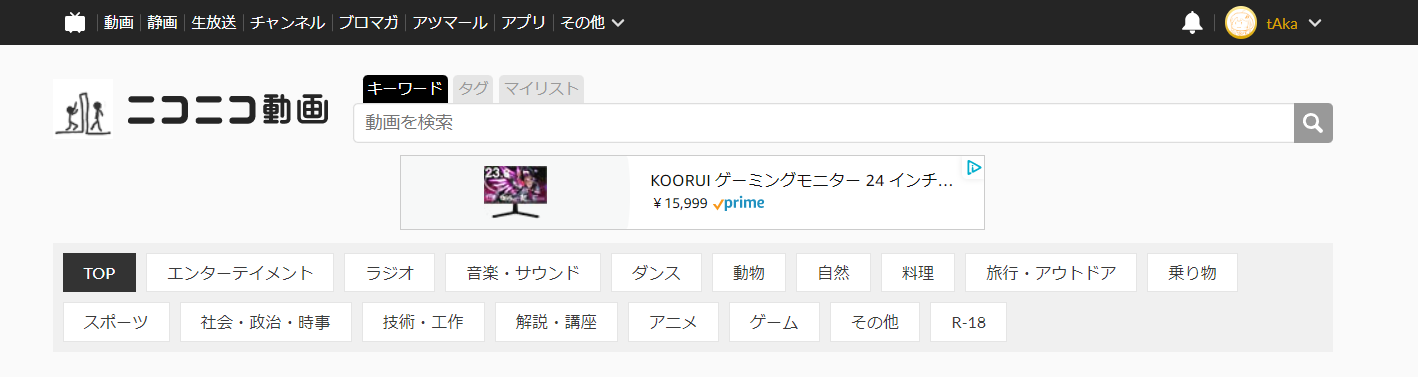
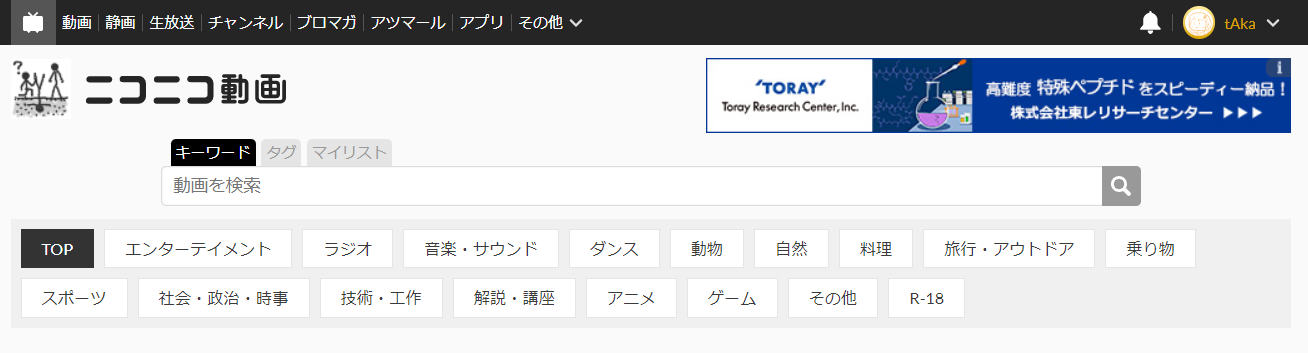
諸々の機能を追加。たくさん。

diff --git a/css/tag.css b/css/tag.css
@@ -1,9 +1,5 @@
 .pageLogo {
-    width: 54px !important;
-}
-
-.logo {
-    display: none !important;
+    order: 1 !important;
 }
 
 .siteHeader {
@@ -11,22 +7,64 @@
     width: 1024px !important;
 }
 
+.siteHeader .inner {
+    display: flex !important;
+    flex-wrap: wrap !important;
+}
+
 .videoSearch {
     width: 940px !important;
+    padding: 0 !important;
+    margin: 10px 0 !important;
+}
+
+.videoSearchOption {
+    padding: 0 10px !important;
+    height: 24px !important;
+}
+
+.videoSearchOption li{
+    border-radius: 4px 4px 0 0 !important;
+    height: 24px !important;
+    line-height: 24px !important;
+    font-size: 14px !important;
+    margin-right: 4px !important;
+    padding: 0 6px !important;
+}
+
+.videoSearchInput {
+    height: 32px !important;
+    border-radius: 6px !important;
 }
 
 .inputText {
     width: 903px !important;
+    background: none !important;
+}
+
+.inputText input{
+    height: 26px !important;
+    background: none !important;
+}
+
+.videoSearchInput .search {
+    height: 31px !important;
+    background-size: 20px !important;
+    background-position-y: 4px !important;
+    background-position-x: 6px !important;
+    border-left: 1px solid #ccc !important;
 }
 
 .clear-button-inner-tag {
     left: 885px !important;
+    top: -22px !important;
 }
 
 .notice {
-    display: contents !important;
+    margin: auto 0 auto auto !important;
+    order: 2 !important;
 }
 
-#web_pc_top {
-    margin-top: 4px !important;
+.tagCaption .contentsData .share{
+    top: 76px !important;
 }

diff --git a/css/search.css b/css/search.css
@@ -1,0 +1,62 @@
+.formSearch{
+    background: none !important;
+    border: none !important;
+    box-shadow: none !important;
+    text-align: left !important;
+}
+
+.searchFormA {
+    text-align: left !important;
+}
+
+.searchFormB {
+    margin: 0 auto 0 0 !important;
+    width: 700px !important;
+    height: 40px !important;
+    border: none !important;
+}
+
+.sbubmit {
+    width: 590px !important;
+}
+
+.sbubmit input{
+    width: -webkit-fill-available !important;
+    height: 36px !important;
+    box-shadow: 0 1px 1px 1px #f9f9f9 inset !important;
+    font-size: 130% !important;
+    font-weight: normal !important;
+    border-radius: 10px 0 0 10px !important;
+    border-width: 1px 0 1px 1px !important;
+    border-style: solid !important;
+    border-color: #ccc !important;
+}
+
+.clear-button-search {
+    top: 10px !important;
+    right: 5px !important;
+}
+
+.searchSubmit {
+    height: 40px !important;
+    width: 40px !important;
+}
+
+.searchSubmit input{
+    height: 20px !important;
+    padding: 9px 9px !important;
+    border: 1px solid #ccc !important;
+}
+
+.tagSearch button{
+    width: 71px;
+    height: 40px;
+    font-size: 93%;
+    background-color: #ddd;
+    border: none;
+    cursor: pointer;
+    border-radius: 0 10px 10px 0;
+    border-width: 1px 1px 1px 0;
+    border-style: solid;
+    border-color: #ccc;
+}

diff --git a/script/search.js b/script/search.js
@@ -1,0 +1,20 @@
+function tagSearchButtonClicked() {
+    let text = document.querySelector(".sbubmit > input").value;
+    console.log(text);
+    location.href = "https://www.nicovideo.jp/tag/" + text;
+}
+
+
+let tagSearch = document.createElement("p");
+tagSearch.className = "tagSearch"
+
+let tagSearchButton = document.createElement("button");
+tagSearchButton.textContent = "タグ検索";
+tagSearchButton.onclick = tagSearchButtonClicked;
+tagSearchButton.type = "button"
+tagSearch.appendChild(tagSearchButton);
+let bInput = document.querySelector(".bInput");
+bInput.appendChild(tagSearch);
+
+let searchSubmitInput = document.querySelector(".searchSubmit > input");
+searchSubmitInput.src = chrome.runtime.getURL("resource/search_icon.png");

diff --git a/css/video_top.css b/css/video_top.css
@@ -1,12 +1,17 @@
 .HeaderContainer {
     flex-wrap: wrap !important;
-    height: 124px !important;
+    height: initial !important;
     justify-content: space-around !important;
-    margin: 24px auto 10px auto !important;
+    /* margin: 10px auto 10px auto !important; */
 }
 
 .HeaderContainer-logo {
-    margin-right: 20px !important;
+    margin: 0 auto 0 0 !important;
+}
+
+.HeaderContainer-searchBox{
+    order: 3 !important;
+    margin: 5px 0 10px 0 !important;
 }
 
 .SearchBox {

diff --git a/script/tag.js b/script/tag.js
@@ -1,0 +1,5 @@
+let videoSearch = document.querySelector(".videoSearch");
+document.querySelector(".tagCaption > .inner > .contentHeader").before(videoSearch);
+
+let buttonSearch = document.querySelector(".videoSearchInput .search");
+buttonSearch.style = "background-image: url(" + chrome.runtime.getURL("resource/search_icon.png") + ")";

diff --git a/readme.md b/readme.md
@@ -7,25 +7,18 @@ UIがちょっとだけなんかいい感じになります。
 
 ## 現在の機能
 
-- ニコニコ動画トップの検索欄が小さすぎる問題をなんかいい感じに解決します。
-- タグ検索時の入力欄が小さすぎる問題をなんかいい感じに解決します。
+- 検索欄が小さすぎる問題をなんかいい感じに大きくします
+- キーワード検索画面からタグ検索に移動できるボタンを追加します
 
-使用前
+例：使用前
 ![動画トップ画面使用前](/images/videotop_before.png)
-![タグ検索画面使用前](/images/001_%E4%BD%BF%E7%94%A8%E5%89%8D.png)
 
 使用後
 ![動画トップ画面使用後](/images/videotop_after.png)
-![タグ検索画面使用後](/images/001_%E4%BD%BF%E7%94%A8%E5%BE%8C.png)
-
-~~広告がむしろ邪魔とか言ってはいけない~~  
-~~技術的には消せるけど、これはアドブロッカーではないので……~~
 
 ## 今後やりたい機能
 
-- 他の画面でも入力欄のサイズを大きくしたい
-- キーワード検索からタグ検索に移動するボタンが欲しい
-    - できたらいいな～～～～～
+- 思いついたら書きます
 
 ## 使い方
 
@@ -35,7 +28,7 @@ UIがちょっとだけなんかいい感じになります。
 1. 右上の「デベロッパーモード」をオン
 1. 「パッケージ化されていない拡張機能を読み込む」をクリック
 1. 解凍したフォルダを選択
-1. 動画トップ（<https://www.nicovideo.jp/video_top>）、タグ検索画面（たとえば<https://www.nicovideo.jp/tag/紲星あかり>とか)に行くと効果を発揮。わぁすごい。
+1. niconico<https://www.nicovideo.jp/>に行くと効果を発揮。わぁすごい。
 
 ## 連絡先
 
